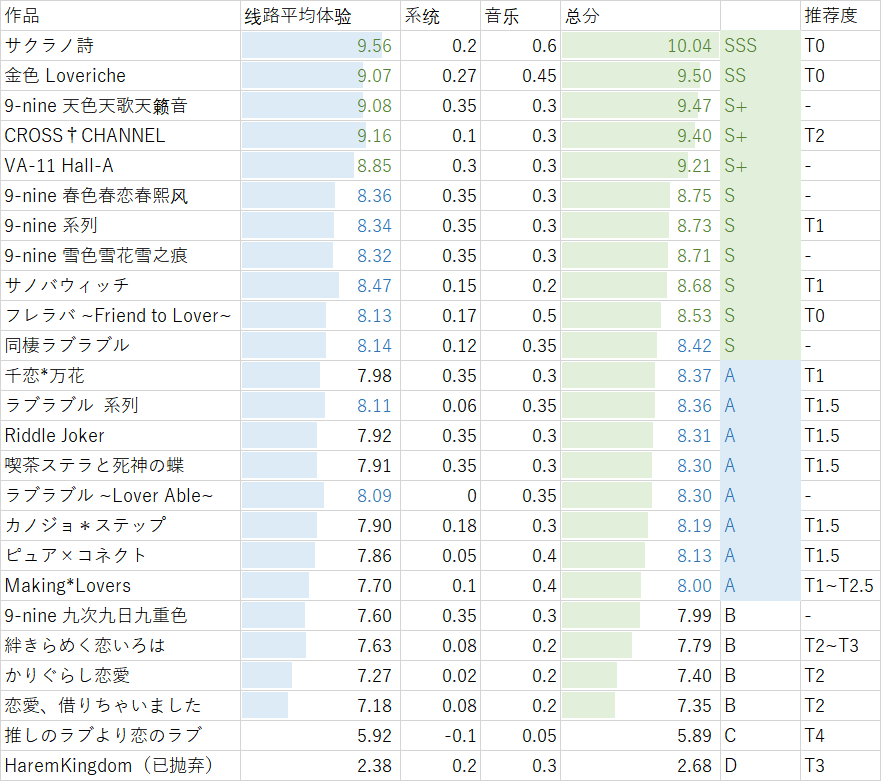
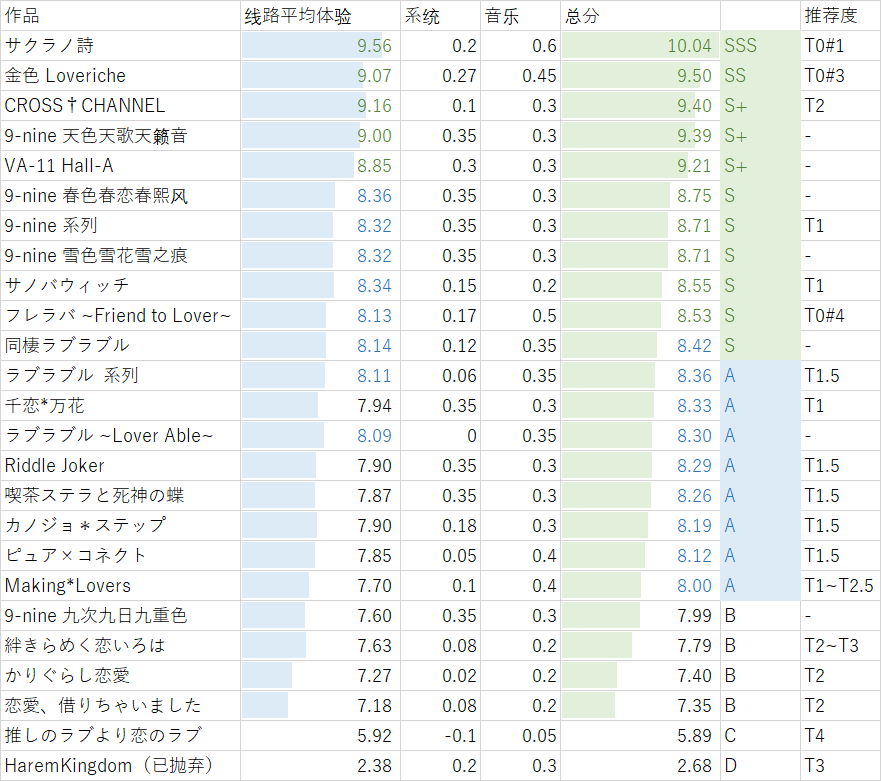
MoeImp edit

diff --git a/impression/9nine.md b/impression/9nine.md
@@ -22,10 +22,10 @@ Palette 「9-nine」（2017-2020）
 | 9-nine | 线路分  |   作品分 | Rank |
 | :---------------: | ---: | :---------: | :--: |
 | 九次九日九重色 | 9.50 | 10.15/N7.99 |  B  |
-| 天色天歌天籁音 | 11.35 | 12.00/N9.47 |  S+  |
+| 天色天歌天籁音 | 11.25 | 11.90/N9.39 |  S+  |
 | 春色春恋春熙风 | 10.45 | 11.10/N8.75 |  S  |
 | 雪色雪花雪之痕 | 10.40 | 11.05/N8.71 |  S   |
-| 整体评分 | - | 11.08/N8.73 |  S  |
+| 整体评分 | - | 11.05/N8.71 |  S  |
 
 ### 九次九日九重色
 
@@ -55,14 +55,14 @@ Palette 「9-nine」（2017-2020）
 
 （新海天）
 
-印象分 9.6→9.2/10 趣味 0.25/0.3 情感 0.4/0.5  
+印象分 9.55→9.1/10 趣味 0.25/0.3 情感 0.4/0.5  
 人物刻画 0.4/0.5 剧情表现 0.3/0.5  
 人物（声音 + 作画）(0.4+0.4)/(0.3+0.4)  
-线路总计 11.35/12.5
+线路总计 11.25/12.5
 
 系统 +0.35（同上）  
 音乐 +0.3  
-作品总计 12.00/N9.47 S+
+作品总计 11.90/N9.39 S+
 
 单线作品就有这样的特点，线路好的话分数可以很高，因为没有其他线路拖后腿；线路烂的话分数可以很低，因为没有其他线路补救。  
 放心，9-nine 系列最后还是要看一个总评分的。
@@ -142,10 +142,10 @@ Palette 「9-nine」（2017-2020）
 
 ### 整体评价
 
-各线路加权总分 10.43  
+各线路加权总分 10.40  
 系统 +0.35（同上）  
 音乐 +0.3  
-作品总计 11.08/N8.73 S
+作品总计 11.05/N8.71 S
 
 实际上我们都能看得出来，9-nine 系列的各个作品与其说是独立作，不如说是一作的不同分支线路。分割商法带来的一个缺点是作品发售时间越靠后剧情越深入并且剧情描绘越能用上力，这实际上发售早的线路十分吃亏，综上所述这句话我说过无数次了但是还要再说一次：
 
